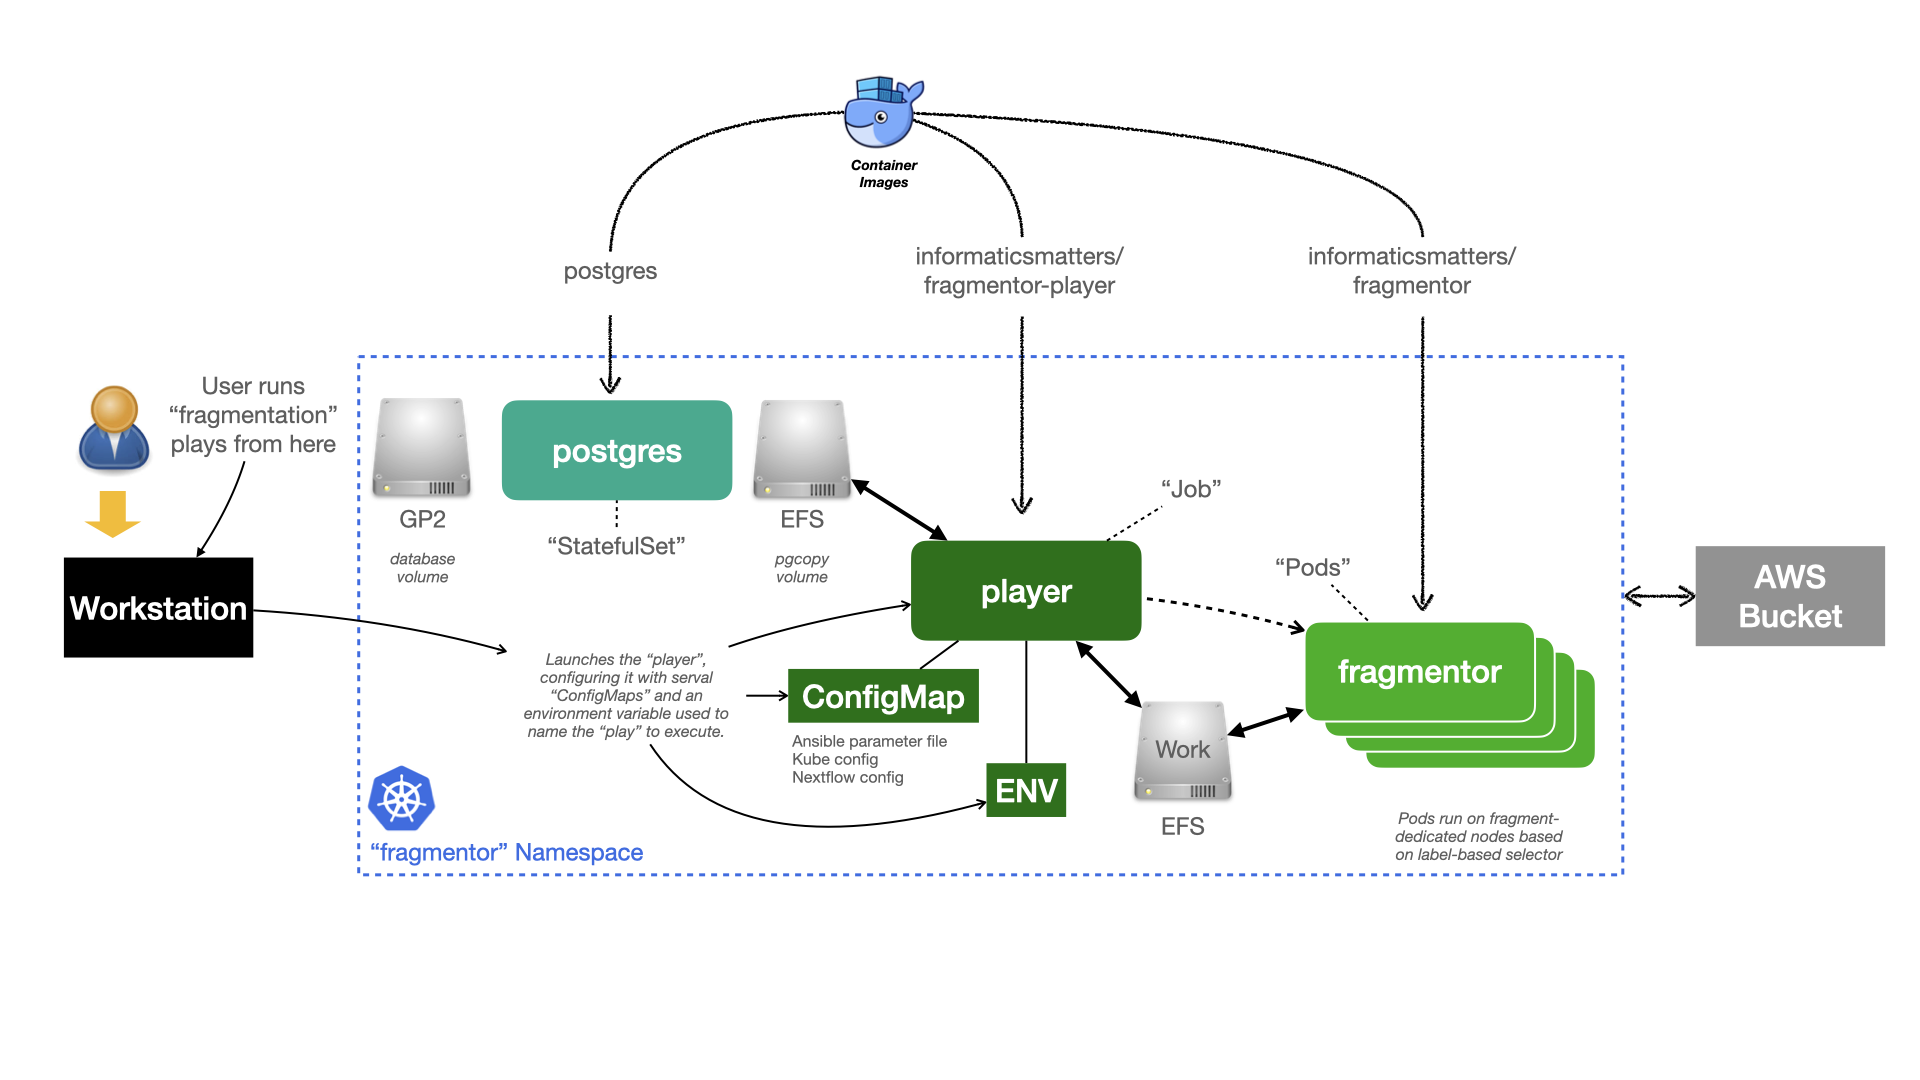
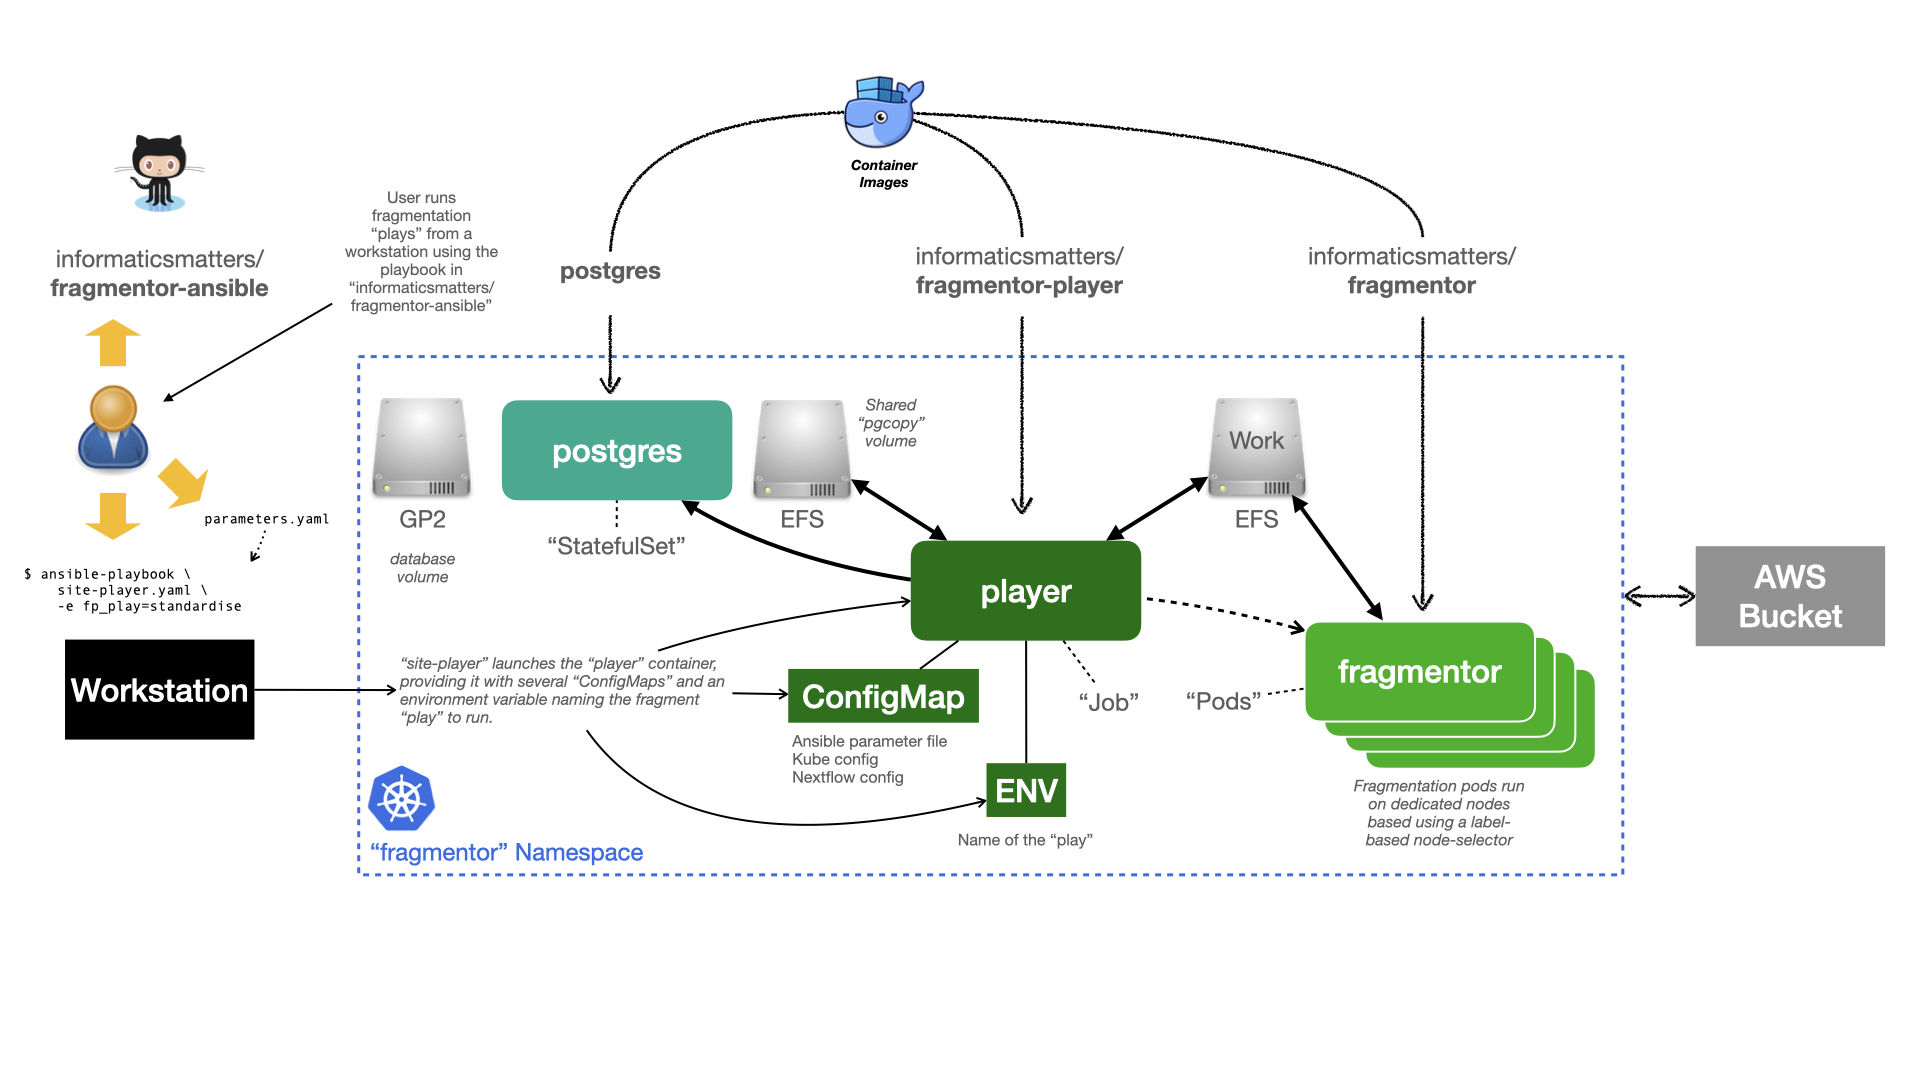
- Adds note about pull secrets and changing image origin
- Doc tweaks

diff --git a/docs/source/fragmentation/index.rst b/docs/source/fragmentation/index.rst
@@ -12,17 +12,27 @@ Fragmentation Processes
 Architecture
 ************
 
-Converting vendor data into a form suitable for a graph requires the use of
-two container images (a *player* and a *fragmentor*) and a PostgreSQL database.
+Fragmentation is implemented and described in our `fragmentor`_ repository.
+
+Converting vendor data into a form suitable for a graph database requires the
+use of two container images (a *player* and a *fragmentor*). these images are
+built from the `fragmentor`_ repository's code. The process also
+relies on a PostgreSQL database.
+
 The process is divided into a number of "plays" that *standardise* the vendor
 data, *fragment* it (into a database) and then *extract* the fragments to form
 a graph.
 
-The "plays" are managed by the *player* container, which launches a number
-of *fragmentor* containers in order to distribute the workload amongst a
-number of parallel processes that share a common volume for data sharing.
-AWS S3 is used as a source of vendor data and used to write the final results
-as illustrated in the following diagram: -
+The whole process is managed from a workstation using the playbook provided
+in the `fragmentor-ansible`_ repository.
+
+The actual "plays" are orchestrated by the *player* container launched from
+the user's workstation. It launches a number of *fragmentor* containers in
+order to distribute the workload amongst a number of parallel processes that
+share a common volume for data processing.
+
+AWS S3 is used as a source of vendor data and where the final results are
+written as illustrated in the following diagram: -
 
 ..  image:: ../images/im-kubernetes-fragmentor/im-kubernetes-fragmentor.001.png
 
@@ -34,7 +44,7 @@ as illustrated in the following diagram: -
 Installation
 ************
 
-Our `fragmentaor-ansible`_ repository contains a detailed description of
+Our `fragmentor-ansible`_ repository contains a detailed description of
 the installation and execution of the fragmentor and it describes what you'll
 need to do to process a small set of molecules (up to a few thousand).
 Refer to it for up-to-date instructions but you will need: -
@@ -47,7 +57,20 @@ Refer to it for up-to-date instructions but you will need: -
 6.  Plenty of spare cores and memory
 
 Follow the **Kubernetes namespace setup** section of the repo's README
-for a fuller description of how to setup the cluster.
+for a fuller description of how to setup the cluster. The section provides
+an example set of parameters that you can use.
+
+Support for private-registry images
+===================================
+
+If you need to source database images from a private repository and need
+to provide an **ImagePullSecret** for them you can provide those as
+additional parameters::
+
+    pg_image_registry: my-registry
+    pg_image_name: postgres
+    pg_image_version: '12.2'
+    all_image_preset_pullsecret_name: my-secret
 
 ..  warning::
     If you're expect to process a large number of molecules you'll need to
@@ -55,29 +78,50 @@ for a fuller description of how to setup the cluster.
     embark on any fragmentation as using the basic setup described will not
     be suitable.
 
-*********
-Execution
-*********
+******************
+Running the player
+******************
 
-With the cluster setup (and databases installed in the **Namespace**) you
+With the cluster setup (and database installed in the **Namespace**) you
 should be able to run the fragmentor plays [#f1]_. This is
-documented in the `fragmentaor-ansible`_ repository README's
+documented in the `fragmentor-ansible`_ repository README's
 **Running a play** section.
 
-This essential requires the one-time preparation of the database
-(handled by the player) and then a fragmentation run using the
-following plays: -
+This essentially requires the one-time preparation of the database
+(handled by the player) and then running the fragmentation process,
+which entails the use of the following plays: -
 
 -   **standardise**
 -   **fragment**
 -   **inchi**
 -   **extract**
 
-Refer to the `fragmentaor-ansible`_ repository for further details.
+Refer to the `fragmentor`_ repository for further details of the
+S3 and data requirements and a description of the basic process.
+
+Support for private-registry images
+===================================
+
+If you need to source the player and fragmentation images from a private
+repository and need to provide an **ImagePullSecret** for them you can provide
+those as additional parameters in the player's parameter file::
+
+    # Details of the 'player' image
+    fp_image_registry: my-registry
+    fp_image_name: informaticsmatters/fragmentor-player
+    fp_image_tag: '1.0.0'
+    # Details of the 'fragmentor' image
+    nextflow_container_registry: my-registry
+    nextflow_container_name: informaticsmatters/fragmentor
+    nextflow_container_tag: sdf-05
+    # The common pull-secret
+    all_image_preset_pullsecret_name: my-secret
+
 
 .. rubric:: Footnotes
 
 .. [#f1] You will need molecule data in a supported format stored in your
          bucket
 
-.. _fragmentaor-ansible: https://github.com/InformaticsMatters/fragmentor-ansible.git
+.. _fragmentor: https://github.com/InformaticsMatters/fragmentor
+.. _fragmentor-ansible: https://github.com/InformaticsMatters/fragmentor-ansible
